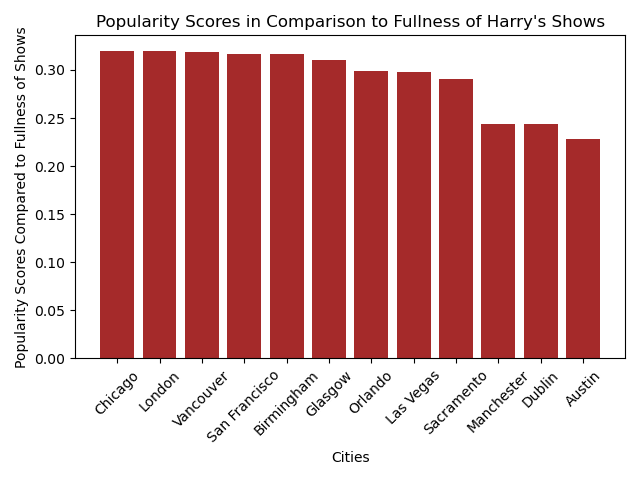
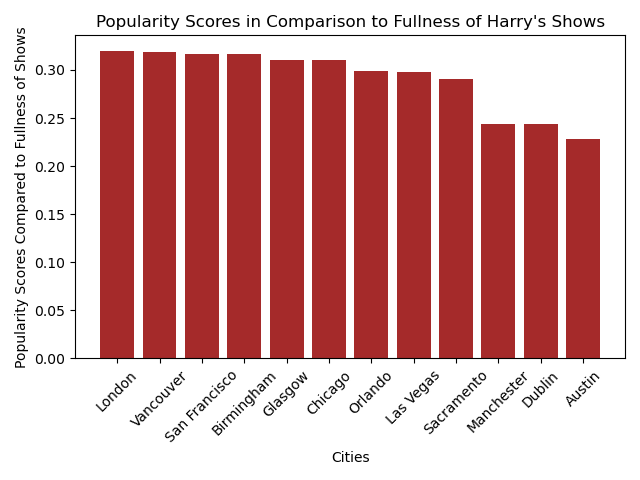
new commit

diff --git a/seatgeek.py b/seatgeek.py
@@ -29,24 +29,6 @@ def make_database(database_name):
     cur = conn.cursor()
     return cur, conn
 
-def make_venue_id_table(data, cur, conn):
-    venue_list = []
-    limit = 0
-    for venue in data:
-        if venue[0] not in venue_list:
-            venue_list.append(venue[0])
-    cur.execute("CREATE TABLE IF NOT EXISTS Venue_id (venue_id INTEGER PRIMARY KEY, venue TEXT)")
-    for x in range(len(venue_list)):
-        if limit < 25:
-            rows = cur.execute("SELECT COUNT(*) FROM Venue_id")
-            num = rows.fetchone()[0]
-            cur.execute("INSERT OR IGNORE INTO Venue_id (venue_id, venue) VALUES (?, ?)", (x,venue_list[x]))
-            rows2 = cur.execute("SELECT COUNT(*) FROM Venue_id")
-            num2 = rows2.fetchone()[0]
-            if num2 > num:
-                limit += 1
-            conn.commit()
-
 def make_city_id_table(data, cur, conn):
     city_list = []
     limit = 0
@@ -67,18 +49,17 @@ def make_city_id_table(data, cur, conn):
             conn.commit()
 
 def make_location_table(data, cur, conn):
-    cur.execute("CREATE TABLE IF NOT EXISTS Location_scores (venue_id INTEGER PRIMARY KEY, city_id INTEGER, score NUMBER)")
+    cur.execute("CREATE TABLE IF NOT EXISTS Location_scores (venue TEXT PRIMARY KEY, city_id INTEGER, score NUMBER)")
     limit = 0
     for concert in data:
        if limit < 25:
-            cur.execute("SELECT venue_id FROM Venue_id WHERE venue = ?", (concert[0],))
-            venue_id = int(cur.fetchone()[0])
+            venue = concert[0]
             cur.execute("SELECT city_id FROM City_id WHERE city = ?", (concert[1],))
             city_id = int(cur.fetchone()[0])
             score = concert[2]
             rows = cur.execute("SELECT COUNT(*) FROM Location_scores")
             num = rows.fetchone()[0]
-            cur.execute("INSERT OR IGNORE INTO Location_scores (venue_id, city_id, score) values(?, ?, ?)", (venue_id, city_id, score))
+            cur.execute("INSERT OR IGNORE INTO Location_scores (venue, city_id, score) values(?, ?, ?)", (venue, city_id, score))
             rows2 = cur.execute("SELECT COUNT(*) FROM Location_scores")
             num2 = rows2.fetchone()[0]
             if num2 > num:
@@ -87,14 +68,14 @@ def make_location_table(data, cur, conn):
     
 def make_visualization(cur, conn):
     percent_dict = {}
-    cur.execute("SELECT city, attendance, capacity FROM Harry_Styles")
+    cur.execute("SELECT City_id.city, Harry_Styles.attendance, Harry_Styles.capacity FROM City_id JOIN Harry_Styles ON City_id.city_id == Harry_Styles.city_id")
     results = cur.fetchall()
     for result in results:
         city = result[0]
         percent = round((result[1]/result[2]), 4)
         percent_dict[city] = percent
     score_dict = {}
-    cur.execute("SELECT Location_scores.city, Location_scores.score, Venue_id.venue FROM Location_scores JOIN Venue_id ON Location_scores.venue_id == Venue_id.venue_id")
+    cur.execute("SELECT City_id.city, Location_scores.score, Location_scores.venue FROM City_id JOIN Location_scores ON City_id.city_id == Location_scores.city_id")
     results = cur.fetchall()
     for result in results:
         city = result[0]
@@ -114,6 +95,7 @@ def make_visualization(cur, conn):
         if len(city_list) < 12:
             city_list.append(item[0])
             comparison_list.append(item[1])
+
     plt.figure()
     plt.bar(city_list, comparison_list, color = 'brown')
     plt.title("Popularity Scores in Comparison to Fullness of Harry's Shows")
@@ -128,10 +110,9 @@ def make_visualization(cur, conn):
 def main():
     venue_data = get_venue()
     cur, conn = make_database("concerts.db")
-    make_venue_id_table(venue_data, cur, conn)
     make_city_id_table(venue_data, cur, conn)
     make_location_table(venue_data, cur, conn)
-    #make_visualization(cur, conn)
+    make_visualization(cur, conn)
     print("Done")
     
 

diff --git a/wiki.py b/wiki.py
@@ -62,7 +62,7 @@ def make_city_id_table(data, cur, conn):
     for city in data:
         if city[1] not in city_list:
             city_list.append(city[1])
-    #cur.execute("CREATE TABLE IF NOT EXISTS City_id (city_id INTEGER PRIMARY KEY, city TEXT)")
+    cur.execute("CREATE TABLE IF NOT EXISTS City_id (city_id INTEGER PRIMARY KEY, city TEXT UNIQUE)")
     limit = 0
     for x in range(len(city_list)):
         if limit < 25:
@@ -96,7 +96,7 @@ def make_table(data, cur, conn):
 
 def calculations(filename, cur, conn):
     city_dict = {}
-    cur.execute("SELECT city, attendance FROM Harry_Styles")
+    cur.execute("SELECT City_id.city, Harry_Styles.attendance FROM City_id JOIN Harry_Styles ON City_id.city_id == Harry_Styles.city_id")
     results = cur.fetchall()
     for result in results:
         if result[0] not in city_dict:
@@ -107,19 +107,20 @@ def calculations(filename, cur, conn):
     for city in city_dict:
         f.write(city+": "+str(city_dict[city])+"\n")
 
-    cur.execute("SELECT population_data.city, population_data.population, Harry_Styles.attendance FROM population_data JOIN Harry_Styles ON Harry_Styles.city == population_data.city")
+    cur.execute("SELECT population_data.city_id, population_data.population, Harry_Styles.attendance FROM population_data JOIN Harry_Styles ON Harry_Styles.city_id == population_data.city_id")
     results = cur.fetchall()
     f.write("\n")
     f.write("Proportion of City Population Who Attended Concert\n")
     percentages = {}
     for result in results:
-        city = result[0]
+        cur.execute("SELECT city FROM City_id WHERE city_id = ?", (result[0],))
+        city= cur.fetchone()[0]
         percentage = round((result[2] / result[1]), 4)
         f.write(city+": "+str(percentage)+"\n")
         percentages[city] = percentage
 
     percent_dict = {}
-    cur.execute("SELECT city, attendance, capacity FROM Harry_Styles")
+    cur.execute("SELECT City_id.city, Harry_Styles.attendance, Harry_Styles.capacity FROM City_id JOIN Harry_Styles ON City_id.city_id == Harry_Styles.city_id")
     results = cur.fetchall()
     f.write("\n")
     f.write("Fullness of Venues\n")
@@ -130,7 +131,7 @@ def calculations(filename, cur, conn):
         percent_dict[city] = percent
 
     score_dict = {}
-    cur.execute("SELECT Location_scores.city, Location_scores.score, Venue_id.venue FROM Location_scores JOIN Venue_id ON Location_scores.venue_id == Venue_id.venue_id")
+    cur.execute("SELECT City_id.city, Location_scores.score, Location_scores.venue FROM City_id JOIN Location_scores ON City_id.city_id == Location_scores.city_id")
     results = cur.fetchall()
     f.write("\n")
     f.write("Popularity Scores Based on Venue\n")
@@ -175,6 +176,7 @@ def main():
     cur, conn = make_database('concerts.db')
     make_city_id_table(harry_data, cur, conn)
     make_table(harry_data, cur, conn)
-    #attendance_visualization(cur, conn)
+    calculations("calculations.txt", cur, conn)
+    attendance_visualization(cur, conn)
 
 main()

diff --git a/eventbrite.py b/eventbrite.py
@@ -30,7 +30,7 @@ def make_city_id_table(data, cur, conn):
     for city in data:
         if city[0] not in city_list:
             city_list.append(city[0])
-    #cur.execute("CREATE TABLE IF NOT EXISTS City_id (city_id INTEGER PRIMARY KEY, city TEXT)")
+    cur.execute("CREATE TABLE IF NOT EXISTS City_id (city_id INTEGER PRIMARY KEY, city TEXT UNIQUE)")
     for x in range(len(city_list)):
         if limit < 25:
             rows = cur.execute("SELECT COUNT(*) FROM City_id")
@@ -60,11 +60,12 @@ def create_population_table(lst, cur, conn):
             conn.commit()
 
 def visualization(cur, conn):
-    cur.execute("SELECT population_data.city, population_data.population, Harry_Styles.attendance FROM population_data JOIN Harry_Styles ON Harry_Styles.city == population_data.city")
+    cur.execute("SELECT population_data.city_id, population_data.population, Harry_Styles.attendance FROM population_data JOIN Harry_Styles ON Harry_Styles.city_id == population_data.city_id")
     results = cur.fetchall()
     percentages = {}
     for result in results:
-        city = result[0]
+        cur.execute("SELECT city FROM City_id WHERE city_id = ?", (result[0],))
+        city= cur.fetchone()[0]
         percentage = round((result[2] / result[1]), 4)
         percentages[city] = percentage
     sorted_percentages = sorted(percentages.items(), key = lambda x: x[1], reverse=True)
@@ -74,17 +75,6 @@ def visualization(cur, conn):
         if len(city_list) < 12:
             city_list.append(item[0])
             percentages_list.append(item[1])
-    # cur.execute("SELECT city, population FROM population_data")
-    #calc_dict = wiki.percent_calculations("calculations.txt", cur, conn)
-
-    # data = cur.fetchall()
-    #data2 = sorted(calc_dict.items(), key = lambda x: x[1], reverse=True)
-    # conn.commit()
-    
-    #for city, percent in data2:
-        #if len(city_list) < 10:
-            #city_list.append(city)
-            #population_list.append(percent)
     
     plt.figure()
     plt.bar(city_list, percentages_list, color = 'lightblue')
@@ -122,11 +112,7 @@ def main():
     data = get_population(city_list)
     make_city_id_table(data, cur, conn)
     create_population_table(data,cur,conn)
-    #visualization(cur, conn)
-    #calculations("calculations.txt", cur, conn)
-    # file = open("calculations.txt", "r")
-    # print(file.read())
-    # file.close()
+    visualization(cur, conn)
     print('Done')
     
 main()
